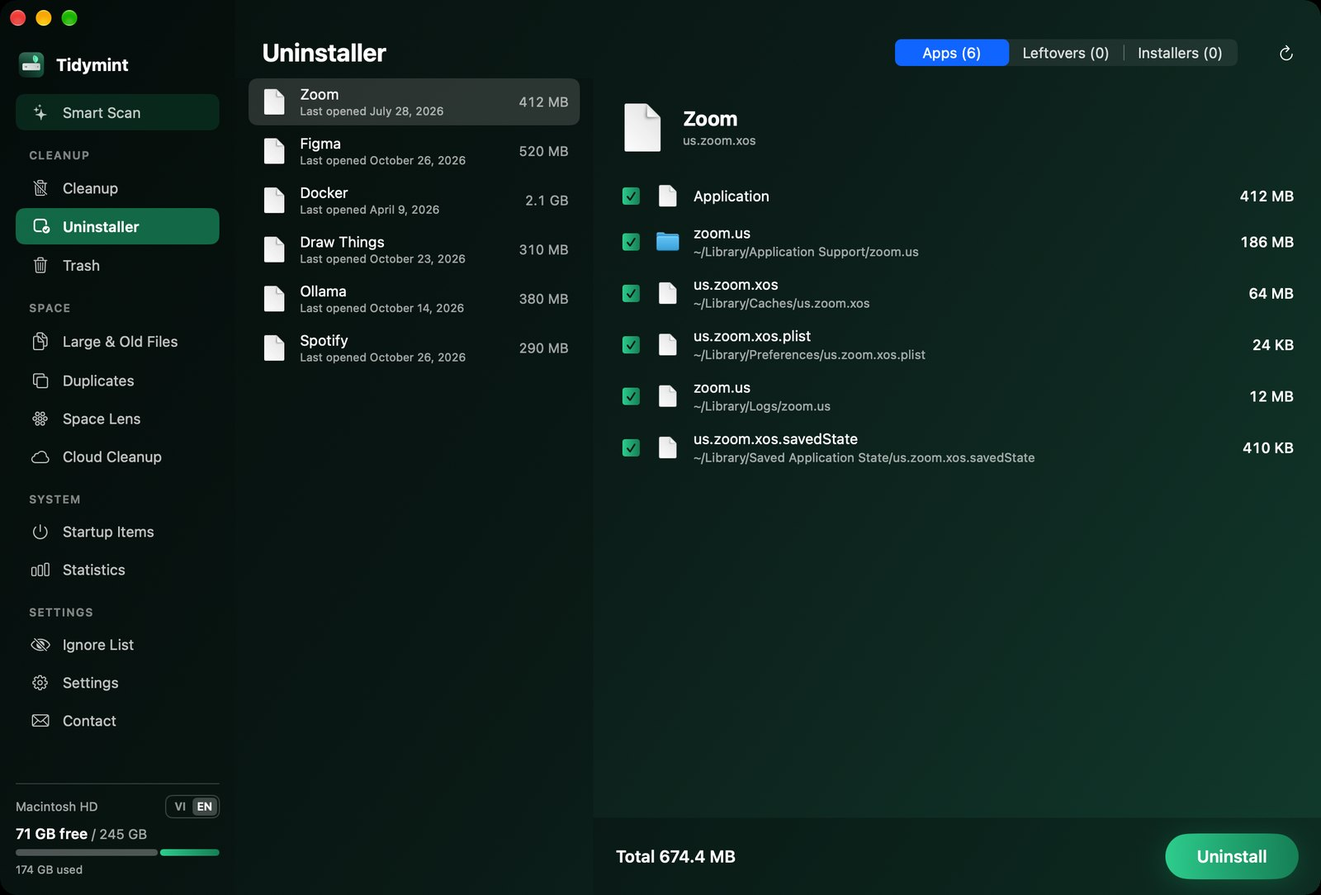
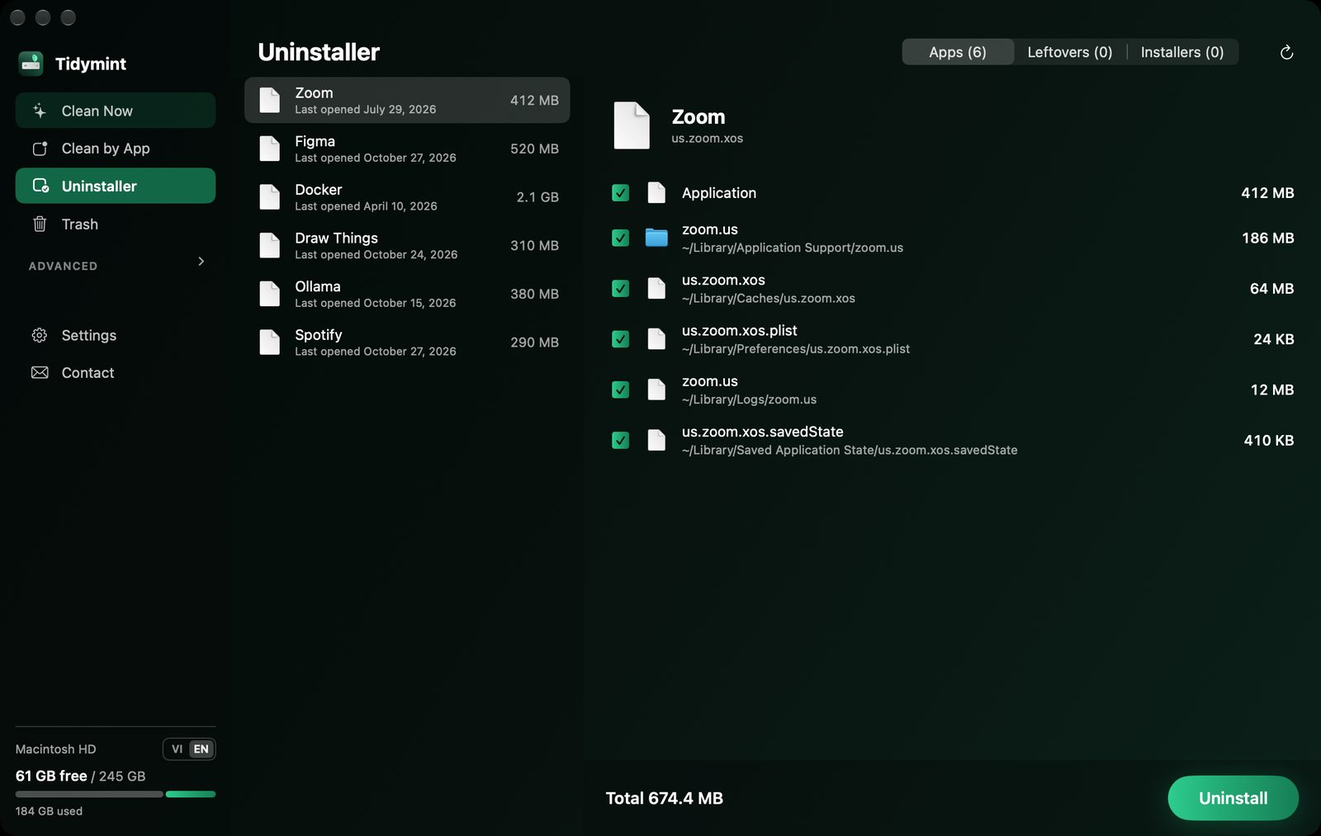
Website and README: new screenshots for the 0.3.1 interface, Vietnamese screenshots on /vi/, feature cards for Clean by App, Undo and Startup Items

diff --git a/docs/vi/index.html b/docs/vi/index.html
@@ -12,7 +12,7 @@
 <link rel="icon" href="../favicon.png">
 <meta property="og:title" content="Dọn dẹp MacBook miễn phí, thay CleanMyMac | Tidymint">
 <meta property="og:description" content="Dọn dẹp MacBook miễn phí: xoá bộ nhớ đệm, gọn Dữ liệu hệ thống, gỡ ứng dụng sạch, tìm file trùng. Mã nguồn mở, tiếng Việt, mọi thứ vào Thùng rác trước.">
-<meta property="og:image" content="https://tidymint.app/smart.jpg">
+<meta property="og:image" content="https://tidymint.app/vi/smart.jpg">
 <meta property="og:url" content="https://tidymint.app/vi/">
 <meta name="twitter:card" content="summary_large_image">
 <script>
@@ -144,7 +144,7 @@ summary{user-select:none}
   <p>Tidymint giúp bạn dọn dẹp MacBook an toàn và miễn phí: xoá bộ nhớ đệm, gọn Dữ liệu hệ thống, gỡ ứng dụng sạch sẽ, tìm file trùng và biết chính xác cái gì đang chiếm ổ.</p>
   <div class="cta"><a class="btn primary" href="https://github.com/HaiTrung-Workspace/tidymint/releases/latest/download/Tidymint.zip">Tải miễn phí <span class="arr">→</span></a><a class="btn ghost" href="#cai-dat">Hướng dẫn cài</a></div>
   <div class="badges"><span>✓ Miễn phí, mã nguồn mở (MIT)</span><span>✓ Chỉ chuyển vào Thùng rác</span><span>✓ Chạy không cần mạng, không theo dõi</span><span>★ Có trong danh sách <a href="https://github.com/jaywcjlove/awesome-mac">awesome-mac</a></span></div>
-  <div class="shot"><img src="../smart.jpg" alt="Kết quả Quét thông minh của Tidymint" width="1600" height="1084"></div>
+  <div class="shot"><img src="smart.jpg" alt="Trang đầu Tidymint sau khi quét: phần an toàn để dọn, chia nhóm và ghi dung lượng" width="1600" height="1013"></div>
 </header>
 
 <section>
@@ -159,7 +159,7 @@ summary{user-select:none}
 <section>
   <div class="def">
     <div><span class="tag">Nên biết</span><h2>“Dữ liệu hệ thống” trên Mac là gì?</h2><p>Trong <b>Cài đặt hệ thống › Cài đặt chung › Dung lượng</b>, macOS gom mọi thứ không xếp được vào mục <b>Dữ liệu hệ thống</b> (System Data). Mục này hay phình lên hàng chục GB và khó xem bằng Finder.</p><ul><li>Bộ nhớ đệm, nhật ký, file tạm của app và trình duyệt</li><li>Phần sót lại của app đã xoá</li><li>Bản chụp Time Machine trên máy và file cài đặt cũ</li><li>Với người làm AI: file model và bộ nhớ đệm thư viện</li></ul><p>Tidymint chỉ ra thư mục nào đang lớn trên máy bạn, giải thích từng thư mục bằng lời dễ hiểu, và cho bạn chuyển các mục an toàn vào Thùng rác.</p></div>
-    <img src="../lens.jpg" alt="Bản đồ bong bóng cho thấy thư mục nào chiếm ổ MacBook" loading="lazy" style="width:100%;height:auto;border-radius:12px;border:1px solid var(--line)">
+    <img src="lens.jpg" alt="Bản đồ bong bóng cho thấy thư mục nào chiếm ổ MacBook" loading="lazy" style="width:100%;height:auto;border-radius:12px;border:1px solid var(--line)">
   </div>
 </section>
 
@@ -170,8 +170,8 @@ summary{user-select:none}
 
 <section id="tinh-nang">
   <span class="tag">Tính năng</span><h2>Đủ cả trong một app nhỏ</h2>
-  <div class="grid" style="margin-top:24px"><div class="card"><span class="ico"><svg viewBox="0 0 24 24" width="22" height="22" fill="none" stroke="currentColor" stroke-width="1.75" stroke-linecap="round" stroke-linejoin="round" aria-hidden="true"><path d="M9.94 15.5A2 2 0 0 0 8.5 14.06l-6.14-1.58a.5.5 0 0 1 0-.96L8.5 9.94A2 2 0 0 0 9.94 8.5l1.58-6.14a.5.5 0 0 1 .96 0l1.58 6.14a2 2 0 0 0 1.44 1.44l6.14 1.58a.5.5 0 0 1 0 .96l-6.14 1.58a2 2 0 0 0-1.44 1.44l-1.58 6.14a.5.5 0 0 1-.96 0z"/><path d="M20 3v4M22 5h-4"/></svg></span><b>Quét thông minh</b><span>Bộ nhớ đệm, nhật ký, npm cache, Downloads cũ và file nháp trong thư mục dự án.</span></div><div class="card"><span class="ico"><svg viewBox="0 0 24 24" width="22" height="22" fill="none" stroke="currentColor" stroke-width="1.75" stroke-linecap="round" stroke-linejoin="round" aria-hidden="true"><rect x="8" y="8" width="14" height="14" rx="2"/><path d="M4 16c-1.1 0-2-.9-2-2V4c0-1.1.9-2 2-2h10c1.1 0 2 .9 2 2"/></svg></span><b>File trùng</b><span>Tìm theo nội dung. Giữ bản tốt nhất, kiểm tra script trước khi xoá.</span></div><div class="card"><span class="ico"><svg viewBox="0 0 24 24" width="22" height="22" fill="none" stroke="currentColor" stroke-width="1.75" stroke-linecap="round" stroke-linejoin="round" aria-hidden="true"><circle cx="8.5" cy="14.5" r="5.5"/><circle cx="17" cy="7.5" r="4"/><circle cx="18.5" cy="18" r="2.5"/></svg></span><b>Bản đồ ổ đĩa</b><span>Bong bóng cho thấy cái gì chiếm ổ, kèm giải thích thư mục hay gặp.</span></div><div class="card"><span class="ico"><svg viewBox="0 0 24 24" width="22" height="22" fill="none" stroke="currentColor" stroke-width="1.75" stroke-linecap="round" stroke-linejoin="round" aria-hidden="true"><path d="M11 21.73a2 2 0 0 0 2 0l7-4A2 2 0 0 0 21 16V8a2 2 0 0 0-1-1.73l-7-4a2 2 0 0 0-2 0l-7 4A2 2 0 0 0 3 8v8a2 2 0 0 0 1 1.73z"/><path d="M12 22V12M3.3 7 12 12l8.7-5"/></svg></span><b>Gỡ app</b><span>Gỡ app cùng bộ nhớ đệm, cài đặt và phần sót lại.</span></div><div class="card"><span class="ico"><svg viewBox="0 0 24 24" width="22" height="22" fill="none" stroke="currentColor" stroke-width="1.75" stroke-linecap="round" stroke-linejoin="round" aria-hidden="true"><path d="M15 2H6a2 2 0 0 0-2 2v16a2 2 0 0 0 2 2h12a2 2 0 0 0 2-2V7z"/><path d="M14 2v4a2 2 0 0 0 2 2h4M12 11v7M9 15l3 3 3-3"/></svg></span><b>File lớn và cũ</b><span>File trên 100 MB, xếp theo dung lượng hoặc lần mở cuối. Không chọn sẵn.</span></div><div class="card"><span class="ico"><svg viewBox="0 0 24 24" width="22" height="22" fill="none" stroke="currentColor" stroke-width="1.75" stroke-linecap="round" stroke-linejoin="round" aria-hidden="true"><path d="m12 14 4-4"/><path d="M3.34 19a10 10 0 1 1 17.32 0"/></svg></span><b>Thanh menu</b><span>Xem nhanh dung lượng trống, RAM, Thùng rác; báo khi ổ sắp đầy.</span></div></div>
-  <div class="feature" style="margin-top:48px"><img src="../dupes.jpg" alt="Tìm file trùng trên MacBook, đánh dấu bản giữ lại" loading="lazy"><img src="../cleanup.jpg" alt="Chi tiết dọn dẹp: bộ nhớ đệm và nhật ký xếp theo dung lượng" loading="lazy"></div>
+  <div class="grid" style="margin-top:24px"><div class="card"><span class="ico"><svg viewBox="0 0 24 24" width="22" height="22" fill="none" stroke="currentColor" stroke-width="1.75" stroke-linecap="round" stroke-linejoin="round" aria-hidden="true"><path d="M9.94 15.5A2 2 0 0 0 8.5 14.06l-6.14-1.58a.5.5 0 0 1 0-.96L8.5 9.94A2 2 0 0 0 9.94 8.5l1.58-6.14a.5.5 0 0 1 .96 0l1.58 6.14a2 2 0 0 0 1.44 1.44l6.14 1.58a.5.5 0 0 1 0 .96l-6.14 1.58a2 2 0 0 0-1.44 1.44l-1.58 6.14a.5.5 0 0 1-.96 0z"/><path d="M20 3v4M22 5h-4"/></svg></span><b>Dọn ngay</b><span>Quét bộ nhớ đệm, nhật ký, npm cache, file cài đặt cũ, cho xem tìm được gì, và chỉ dọn khi bạn bấm Dọn.</span></div><div class="card"><span class="ico"><svg viewBox="0 0 24 24" width="22" height="22" fill="none" stroke="currentColor" stroke-width="1.75" stroke-linecap="round" stroke-linejoin="round" aria-hidden="true"><rect x="3" y="3" width="7" height="7" rx="1.5"/><rect x="14" y="3" width="7" height="7" rx="1.5"/><rect x="3" y="14" width="7" height="7" rx="1.5"/><rect x="14" y="14" width="7" height="7" rx="1.5"/></svg></span><b>Dọn theo ứng dụng</b><span>Zalo, Chrome, Edge, Cốc Cốc, CapCut: bộ nhớ đệm chọn sẵn, ảnh và file xếp theo tháng để bạn tự chọn, tin nhắn và đăng nhập bị khoá.</span></div><div class="card"><span class="ico"><svg viewBox="0 0 24 24" width="22" height="22" fill="none" stroke="currentColor" stroke-width="1.75" stroke-linecap="round" stroke-linejoin="round" aria-hidden="true"><path d="M3 7v6h6"/><path d="M21 17a9 9 0 0 0-15-6.7L3 13"/></svg></span><b>Hoàn tác</b><span>Mỗi lần dọn đều được ghi lại. Một nút trả mọi thứ về chỗ cũ khi còn trong Thùng rác.</span></div><div class="card"><span class="ico"><svg viewBox="0 0 24 24" width="22" height="22" fill="none" stroke="currentColor" stroke-width="1.75" stroke-linecap="round" stroke-linejoin="round" aria-hidden="true"><rect x="8" y="8" width="14" height="14" rx="2"/><path d="M4 16c-1.1 0-2-.9-2-2V4c0-1.1.9-2 2-2h10c1.1 0 2 .9 2 2"/></svg></span><b>File trùng</b><span>Tìm theo nội dung. Giữ bản tốt nhất, kiểm tra script trước khi xoá.</span></div><div class="card"><span class="ico"><svg viewBox="0 0 24 24" width="22" height="22" fill="none" stroke="currentColor" stroke-width="1.75" stroke-linecap="round" stroke-linejoin="round" aria-hidden="true"><circle cx="8.5" cy="14.5" r="5.5"/><circle cx="17" cy="7.5" r="4"/><circle cx="18.5" cy="18" r="2.5"/></svg></span><b>Bản đồ ổ đĩa</b><span>Bong bóng cho thấy cái gì chiếm ổ, kèm giải thích thư mục hay gặp.</span></div><div class="card"><span class="ico"><svg viewBox="0 0 24 24" width="22" height="22" fill="none" stroke="currentColor" stroke-width="1.75" stroke-linecap="round" stroke-linejoin="round" aria-hidden="true"><path d="M11 21.73a2 2 0 0 0 2 0l7-4A2 2 0 0 0 21 16V8a2 2 0 0 0-1-1.73l-7-4a2 2 0 0 0-2 0l-7 4A2 2 0 0 0 3 8v8a2 2 0 0 0 1 1.73z"/><path d="M12 22V12M3.3 7 12 12l8.7-5"/></svg></span><b>Gỡ app</b><span>Gỡ app cùng bộ nhớ đệm và phần sót lại. Chỉ chọn sẵn phần khớp bundle id; có database bên trong thì để bạn quyết.</span></div><div class="card"><span class="ico"><svg viewBox="0 0 24 24" width="22" height="22" fill="none" stroke="currentColor" stroke-width="1.75" stroke-linecap="round" stroke-linejoin="round" aria-hidden="true"><path d="M15 2H6a2 2 0 0 0-2 2v16a2 2 0 0 0 2 2h12a2 2 0 0 0 2-2V7z"/><path d="M14 2v4a2 2 0 0 0 2 2h4M12 11v7M9 15l3 3 3-3"/></svg></span><b>File lớn</b><span>File trên 100 MB, xếp theo dung lượng hoặc lần mở cuối. Không chọn sẵn.</span></div><div class="card"><span class="ico"><svg viewBox="0 0 24 24" width="22" height="22" fill="none" stroke="currentColor" stroke-width="1.75" stroke-linecap="round" stroke-linejoin="round" aria-hidden="true"><path d="M20 13c0 5-3.5 7.5-7.66 8.95a1 1 0 0 1-.67-.01C7.5 20.5 4 18 4 13V6a1 1 0 0 1 1-1c2 0 4.5-1.2 6.24-2.72a1.17 1.17 0 0 1 1.52 0C14.51 3.81 17 5 19 5a1 1 0 0 1 1 1z"/><path d="m9 12 2 2 4-4"/></svg></span><b>Khởi động cùng máy</b><span>Ai đã ký từng mục chạy ngầm, đánh dấu vị trí hoặc tên bất thường. Nêu sự thật, không phán xét.</span></div></div>
+  <div class="feature" style="margin-top:48px"><img src="byapp.jpg" alt="Dọn theo ứng dụng: bộ nhớ đệm Zalo chọn sẵn, ảnh tin nhắn xếp theo tháng" loading="lazy" width="1600" height="1013"><img src="dupes.jpg" alt="Tìm file trùng trên MacBook, đánh dấu bản giữ lại" loading="lazy" width="1600" height="1013"></div>
 </section>
 
 <section>

diff --git a/docs/index.html b/docs/index.html
@@ -144,7 +144,7 @@ summary{user-select:none}
   <p>Tidymint is a free, open-source Mac cleaner. Clear caches and System Data, remove duplicate files, uninstall apps completely and see exactly what fills your disk.</p>
   <div class="cta"><a class="btn primary" href="https://github.com/HaiTrung-Workspace/tidymint/releases/latest/download/Tidymint.zip">Download free <span class="arr">→</span></a><a class="btn ghost" href="#install">How to install</a></div>
   <div class="badges"><span>✓ Free and open source (MIT)</span><span>✓ Everything goes to the Trash first</span><span>✓ Works offline, no tracking</span><span>★ Listed in <a href="https://github.com/jaywcjlove/awesome-mac">awesome-mac</a></span></div>
-  <div class="shot"><img src="smart.jpg" alt="Tidymint Smart Scan results" width="1600" height="1084"></div>
+  <div class="shot"><img src="smart.jpg" alt="Tidymint home page after a scan: what is safe to clean, grouped and sized" width="1600" height="1013"></div>
 </header>
 
 <section>
@@ -170,8 +170,8 @@ summary{user-select:none}
 
 <section id="features">
   <span class="tag">Features</span><h2>Everything in one small app</h2>
-  <div class="grid" style="margin-top:24px"><div class="card"><span class="ico"><svg viewBox="0 0 24 24" width="22" height="22" fill="none" stroke="currentColor" stroke-width="1.75" stroke-linecap="round" stroke-linejoin="round" aria-hidden="true"><path d="M9.94 15.5A2 2 0 0 0 8.5 14.06l-6.14-1.58a.5.5 0 0 1 0-.96L8.5 9.94A2 2 0 0 0 9.94 8.5l1.58-6.14a.5.5 0 0 1 .96 0l1.58 6.14a2 2 0 0 0 1.44 1.44l6.14 1.58a.5.5 0 0 1 0 .96l-6.14 1.58a2 2 0 0 0-1.44 1.44l-1.58 6.14a.5.5 0 0 1-.96 0z"/><path d="M20 3v4M22 5h-4"/></svg></span><b>Smart Scan</b><span>Caches, logs, npm cache, old downloads and drafts in your project folders.</span></div><div class="card"><span class="ico"><svg viewBox="0 0 24 24" width="22" height="22" fill="none" stroke="currentColor" stroke-width="1.75" stroke-linecap="round" stroke-linejoin="round" aria-hidden="true"><rect x="8" y="8" width="14" height="14" rx="2"/><path d="M4 16c-1.1 0-2-.9-2-2V4c0-1.1.9-2 2-2h10c1.1 0 2 .9 2 2"/></svg></span><b>Duplicates</b><span>Identical files found by content. Keeps the best copy, checks your scripts before deleting.</span></div><div class="card"><span class="ico"><svg viewBox="0 0 24 24" width="22" height="22" fill="none" stroke="currentColor" stroke-width="1.75" stroke-linecap="round" stroke-linejoin="round" aria-hidden="true"><circle cx="8.5" cy="14.5" r="5.5"/><circle cx="17" cy="7.5" r="4"/><circle cx="18.5" cy="18" r="2.5"/></svg></span><b>Space Lens</b><span>A bubble map of what fills your disk, with notes for common folders.</span></div><div class="card"><span class="ico"><svg viewBox="0 0 24 24" width="22" height="22" fill="none" stroke="currentColor" stroke-width="1.75" stroke-linecap="round" stroke-linejoin="round" aria-hidden="true"><path d="M11 21.73a2 2 0 0 0 2 0l7-4A2 2 0 0 0 21 16V8a2 2 0 0 0-1-1.73l-7-4a2 2 0 0 0-2 0l-7 4A2 2 0 0 0 3 8v8a2 2 0 0 0 1 1.73z"/><path d="M12 22V12M3.3 7 12 12l8.7-5"/></svg></span><b>Uninstaller</b><span>Removes apps with their caches, preferences and leftovers.</span></div><div class="card"><span class="ico"><svg viewBox="0 0 24 24" width="22" height="22" fill="none" stroke="currentColor" stroke-width="1.75" stroke-linecap="round" stroke-linejoin="round" aria-hidden="true"><path d="M15 2H6a2 2 0 0 0-2 2v16a2 2 0 0 0 2 2h12a2 2 0 0 0 2-2V7z"/><path d="M14 2v4a2 2 0 0 0 2 2h4M12 11v7M9 15l3 3 3-3"/></svg></span><b>Large & old files</b><span>Files over 100 MB, sorted by size or last opened. Never pre-selected.</span></div><div class="card"><span class="ico"><svg viewBox="0 0 24 24" width="22" height="22" fill="none" stroke="currentColor" stroke-width="1.75" stroke-linecap="round" stroke-linejoin="round" aria-hidden="true"><path d="m12 14 4-4"/><path d="M3.34 19a10 10 0 1 1 17.32 0"/></svg></span><b>Menu bar</b><span>Free space, RAM and Trash at a glance, with low-space alerts.</span></div></div>
-  <div class="feature" style="margin-top:48px"><img src="dupes.jpg" alt="Tidymint duplicate file finder with the copy to keep marked" loading="lazy"><img src="cleanup.jpg" alt="Tidymint cleanup details listing caches and logs by size" loading="lazy"></div>
+  <div class="grid" style="margin-top:24px"><div class="card"><span class="ico"><svg viewBox="0 0 24 24" width="22" height="22" fill="none" stroke="currentColor" stroke-width="1.75" stroke-linecap="round" stroke-linejoin="round" aria-hidden="true"><path d="M9.94 15.5A2 2 0 0 0 8.5 14.06l-6.14-1.58a.5.5 0 0 1 0-.96L8.5 9.94A2 2 0 0 0 9.94 8.5l1.58-6.14a.5.5 0 0 1 .96 0l1.58 6.14a2 2 0 0 0 1.44 1.44l6.14 1.58a.5.5 0 0 1 0 .96l-6.14 1.58a2 2 0 0 0-1.44 1.44l-1.58 6.14a.5.5 0 0 1-.96 0z"/><path d="M20 3v4M22 5h-4"/></svg></span><b>Clean Now</b><span>Scans caches, logs, npm cache and old installers, shows what it found, and cleans only when you press Clean.</span></div><div class="card"><span class="ico"><svg viewBox="0 0 24 24" width="22" height="22" fill="none" stroke="currentColor" stroke-width="1.75" stroke-linecap="round" stroke-linejoin="round" aria-hidden="true"><rect x="3" y="3" width="7" height="7" rx="1.5"/><rect x="14" y="3" width="7" height="7" rx="1.5"/><rect x="3" y="14" width="7" height="7" rx="1.5"/><rect x="14" y="14" width="7" height="7" rx="1.5"/></svg></span><b>Clean by App</b><span>Zalo, Chrome, Edge, Cốc Cốc and CapCut: caches pre-selected, photos and files by month for you to pick, messages and logins locked.</span></div><div class="card"><span class="ico"><svg viewBox="0 0 24 24" width="22" height="22" fill="none" stroke="currentColor" stroke-width="1.75" stroke-linecap="round" stroke-linejoin="round" aria-hidden="true"><path d="M3 7v6h6"/><path d="M21 17a9 9 0 0 0-15-6.7L3 13"/></svg></span><b>Undo</b><span>Every clean is recorded. One button puts the last run back where it was while it is still in the Trash.</span></div><div class="card"><span class="ico"><svg viewBox="0 0 24 24" width="22" height="22" fill="none" stroke="currentColor" stroke-width="1.75" stroke-linecap="round" stroke-linejoin="round" aria-hidden="true"><rect x="8" y="8" width="14" height="14" rx="2"/><path d="M4 16c-1.1 0-2-.9-2-2V4c0-1.1.9-2 2-2h10c1.1 0 2 .9 2 2"/></svg></span><b>Duplicates</b><span>Identical files found by content. Keeps the best copy, checks your scripts before deleting.</span></div><div class="card"><span class="ico"><svg viewBox="0 0 24 24" width="22" height="22" fill="none" stroke="currentColor" stroke-width="1.75" stroke-linecap="round" stroke-linejoin="round" aria-hidden="true"><circle cx="8.5" cy="14.5" r="5.5"/><circle cx="17" cy="7.5" r="4"/><circle cx="18.5" cy="18" r="2.5"/></svg></span><b>Space Lens</b><span>A bubble map of what fills your disk, with notes for common folders.</span></div><div class="card"><span class="ico"><svg viewBox="0 0 24 24" width="22" height="22" fill="none" stroke="currentColor" stroke-width="1.75" stroke-linecap="round" stroke-linejoin="round" aria-hidden="true"><path d="M11 21.73a2 2 0 0 0 2 0l7-4A2 2 0 0 0 21 16V8a2 2 0 0 0-1-1.73l-7-4a2 2 0 0 0-2 0l-7 4A2 2 0 0 0 3 8v8a2 2 0 0 0 1 1.73z"/><path d="M12 22V12M3.3 7 12 12l8.7-5"/></svg></span><b>Uninstaller</b><span>Removes apps with their caches and leftovers. Only bundle-id matches are pre-selected; anything holding a database is left to you.</span></div><div class="card"><span class="ico"><svg viewBox="0 0 24 24" width="22" height="22" fill="none" stroke="currentColor" stroke-width="1.75" stroke-linecap="round" stroke-linejoin="round" aria-hidden="true"><path d="M15 2H6a2 2 0 0 0-2 2v16a2 2 0 0 0 2 2h12a2 2 0 0 0 2-2V7z"/><path d="M14 2v4a2 2 0 0 0 2 2h4M12 11v7M9 15l3 3 3-3"/></svg></span><b>Large files</b><span>Files over 100 MB, sorted by size or last opened. Never pre-selected.</span></div><div class="card"><span class="ico"><svg viewBox="0 0 24 24" width="22" height="22" fill="none" stroke="currentColor" stroke-width="1.75" stroke-linecap="round" stroke-linejoin="round" aria-hidden="true"><path d="M20 13c0 5-3.5 7.5-7.66 8.95a1 1 0 0 1-.67-.01C7.5 20.5 4 18 4 13V6a1 1 0 0 1 1-1c2 0 4.5-1.2 6.24-2.72a1.17 1.17 0 0 1 1.52 0C14.51 3.81 17 5 19 5a1 1 0 0 1 1 1z"/><path d="m9 12 2 2 4-4"/></svg></span><b>Startup Items</b><span>Who signed each background item, and a flag on unusual locations or names. Facts, not verdicts.</span></div></div>
+  <div class="feature" style="margin-top:48px"><img src="byapp.jpg" alt="Clean by App showing Zalo caches pre-selected and chat photos by month" loading="lazy" width="1600" height="1013"><img src="dupes.jpg" alt="Tidymint duplicate file finder with the copy to keep marked" loading="lazy" width="1600" height="1013"></div>
 </section>
 
 <section>

diff --git a/tools/site.py b/tools/site.py
@@ -8,7 +8,7 @@ GH = "https://github.com/HaiTrung-Workspace/tidymint"
 DL = GH + "/releases/latest/download/Tidymint.zip"
 GA_ID = "G-19HEJDJPN3"
 # Line icons (Lucide style, MIT): 24px grid, 1.75 stroke, currentColor. Used in feature and audience cards.
-ICONS = {'scan': '<path d="M9.94 15.5A2 2 0 0 0 8.5 14.06l-6.14-1.58a.5.5 0 0 1 0-.96L8.5 9.94A2 2 0 0 0 9.94 8.5l1.58-6.14a.5.5 0 0 1 .96 0l1.58 6.14a2 2 0 0 0 1.44 1.44l6.14 1.58a.5.5 0 0 1 0 .96l-6.14 1.58a2 2 0 0 0-1.44 1.44l-1.58 6.14a.5.5 0 0 1-.96 0z"/><path d="M20 3v4M22 5h-4"/>', 'dupes': '<rect x="8" y="8" width="14" height="14" rx="2"/><path d="M4 16c-1.1 0-2-.9-2-2V4c0-1.1.9-2 2-2h10c1.1 0 2 .9 2 2"/>', 'lens': '<circle cx="8.5" cy="14.5" r="5.5"/><circle cx="17" cy="7.5" r="4"/><circle cx="18.5" cy="18" r="2.5"/>', 'apps': '<path d="M11 21.73a2 2 0 0 0 2 0l7-4A2 2 0 0 0 21 16V8a2 2 0 0 0-1-1.73l-7-4a2 2 0 0 0-2 0l-7 4A2 2 0 0 0 3 8v8a2 2 0 0 0 1 1.73z"/><path d="M12 22V12M3.3 7 12 12l8.7-5"/>', 'large': '<path d="M15 2H6a2 2 0 0 0-2 2v16a2 2 0 0 0 2 2h12a2 2 0 0 0 2-2V7z"/><path d="M14 2v4a2 2 0 0 0 2 2h4M12 11v7M9 15l3 3 3-3"/>', 'menu': '<path d="m12 14 4-4"/><path d="M3.34 19a10 10 0 1 1 17.32 0"/>', 'ai': '<rect x="4" y="4" width="16" height="16" rx="2"/><rect x="9" y="9" width="6" height="6" rx="1"/><path d="M15 2v2M15 20v2M2 15h2M2 9h2M20 15h2M20 9h2M9 2v2M9 20v2"/>', 'dev': '<path d="m16 18 6-6-6-6M8 6l-6 6 6 6"/>', 'video': '<rect x="3" y="3" width="18" height="18" rx="2"/><path d="M7 3v18M17 3v18M3 12h18M3 7.5h4M3 16.5h4M17 7.5h4M17 16.5h4"/>', 'drive': '<path d="M22 12H2"/><path d="M5.45 5.11 2 12v6a2 2 0 0 0 2 2h16a2 2 0 0 0 2-2v-6l-3.45-6.89A2 2 0 0 0 16.76 4H7.24a2 2 0 0 0-1.79 1.11z"/><path d="M6 16h.01M10 16h.01"/>'}
+ICONS = {'byapp': '<rect x="3" y="3" width="7" height="7" rx="1.5"/><rect x="14" y="3" width="7" height="7" rx="1.5"/><rect x="3" y="14" width="7" height="7" rx="1.5"/><rect x="14" y="14" width="7" height="7" rx="1.5"/>', 'undo': '<path d="M3 7v6h6"/><path d="M21 17a9 9 0 0 0-15-6.7L3 13"/>', 'shield': '<path d="M20 13c0 5-3.5 7.5-7.66 8.95a1 1 0 0 1-.67-.01C7.5 20.5 4 18 4 13V6a1 1 0 0 1 1-1c2 0 4.5-1.2 6.24-2.72a1.17 1.17 0 0 1 1.52 0C14.51 3.81 17 5 19 5a1 1 0 0 1 1 1z"/><path d="m9 12 2 2 4-4"/>', 'scan': '<path d="M9.94 15.5A2 2 0 0 0 8.5 14.06l-6.14-1.58a.5.5 0 0 1 0-.96L8.5 9.94A2 2 0 0 0 9.94 8.5l1.58-6.14a.5.5 0 0 1 .96 0l1.58 6.14a2 2 0 0 0 1.44 1.44l6.14 1.58a.5.5 0 0 1 0 .96l-6.14 1.58a2 2 0 0 0-1.44 1.44l-1.58 6.14a.5.5 0 0 1-.96 0z"/><path d="M20 3v4M22 5h-4"/>', 'dupes': '<rect x="8" y="8" width="14" height="14" rx="2"/><path d="M4 16c-1.1 0-2-.9-2-2V4c0-1.1.9-2 2-2h10c1.1 0 2 .9 2 2"/>', 'lens': '<circle cx="8.5" cy="14.5" r="5.5"/><circle cx="17" cy="7.5" r="4"/><circle cx="18.5" cy="18" r="2.5"/>', 'apps': '<path d="M11 21.73a2 2 0 0 0 2 0l7-4A2 2 0 0 0 21 16V8a2 2 0 0 0-1-1.73l-7-4a2 2 0 0 0-2 0l-7 4A2 2 0 0 0 3 8v8a2 2 0 0 0 1 1.73z"/><path d="M12 22V12M3.3 7 12 12l8.7-5"/>', 'large': '<path d="M15 2H6a2 2 0 0 0-2 2v16a2 2 0 0 0 2 2h12a2 2 0 0 0 2-2V7z"/><path d="M14 2v4a2 2 0 0 0 2 2h4M12 11v7M9 15l3 3 3-3"/>', 'menu': '<path d="m12 14 4-4"/><path d="M3.34 19a10 10 0 1 1 17.32 0"/>', 'ai': '<rect x="4" y="4" width="16" height="16" rx="2"/><rect x="9" y="9" width="6" height="6" rx="1"/><path d="M15 2v2M15 20v2M2 15h2M2 9h2M20 15h2M20 9h2M9 2v2M9 20v2"/>', 'dev': '<path d="m16 18 6-6-6-6M8 6l-6 6 6 6"/>', 'video': '<rect x="3" y="3" width="18" height="18" rx="2"/><path d="M7 3v18M17 3v18M3 12h18M3 7.5h4M3 16.5h4M17 7.5h4M17 16.5h4"/>', 'drive': '<path d="M22 12H2"/><path d="M5.45 5.11 2 12v6a2 2 0 0 0 2 2h16a2 2 0 0 0 2-2v-6l-3.45-6.89A2 2 0 0 0 16.76 4H7.24a2 2 0 0 0-1.79 1.11z"/><path d="M6 16h.01M10 16h.01"/>'}
 def icon(k):
     return '<svg viewBox="0 0 24 24" width="22" height="22" fill="none" stroke="currentColor" stroke-width="1.75" stroke-linecap="round" stroke-linejoin="round" aria-hidden="true">%s</svg>' % ICONS[k]
 ENDPOINT = "https://script.google.com/macros/s/AKfycbz07aYQ8kI0u0OV842dt-LxeN5TedqfOzNvhmuVAPmgXdcIGtpzI-GNwLE_kiUMiGDKag/exec"
@@ -86,7 +86,7 @@ T = {
   sub="Tidymint is a free, open-source Mac cleaner. Clear caches and System Data, remove duplicate files, uninstall apps completely and see exactly what fills your disk.",
   cta1="Download free", cta2="How to install",
   badges=["✓ Free and open source (MIT)","✓ Everything goes to the Trash first","✓ Works offline, no tracking",'★ Listed in <a href="https://github.com/jaywcjlove/awesome-mac">awesome-mac</a>'],
-  shot_alt="Tidymint Smart Scan results", lens_alt="Space Lens bubble map showing which folders fill a Mac disk", dupes_alt="Tidymint duplicate file finder with the copy to keep marked", cleanup_alt="Tidymint cleanup details listing caches and logs by size", vs_more='Full comparison: <a href="cleanmymac-alternative/">free CleanMyMac alternatives</a> · Guide: <a href="clear-system-data-mac/">how to clear System Data on Mac</a>',
+  shot_alt="Tidymint home page after a scan: what is safe to clean, grouped and sized", byapp_alt="Clean by App showing Zalo caches pre-selected and chat photos by month", lens_alt="Space Lens bubble map showing which folders fill a Mac disk", dupes_alt="Tidymint duplicate file finder with the copy to keep marked", cleanup_alt="Tidymint cleanup details listing caches and logs by size", vs_more='Full comparison: <a href="cleanmymac-alternative/">free CleanMyMac alternatives</a> · Guide: <a href="clear-system-data-mac/">how to clear System Data on Mac</a>',
   vs_tag="Why Tidymint", vs_h="A cleaner you can actually trust",
   vs_bad_h="Typical paid cleaners", vs_bad=["Paid licence or subscription, major upgrades often cost extra","Closed source: you cannot see what it deletes","Cracked copies are a common way to get malware"],
   vs_good_h="Tidymint", vs_good=["Free, with no account and no subscription","Open source (MIT): anyone can read every line","Only moves items to the Trash, you empty it yourself"],
@@ -97,7 +97,7 @@ T = {
   how_tag="How it works", how_h="Three steps, you stay in control",
   how=[("Scan","One click looks through caches, logs, old downloads, large files and duplicates. Nothing is touched yet."),("Review","Every item is grouped, sized and explained. Risky items are never pre-selected, files still used by your scripts are flagged."),("Clean","Selected items move to the Trash. Check the Trash, then empty it when you are ready.")],
   feat_tag="Features", feat_h="Everything in one small app",
-  feats=[("scan","Smart Scan","Caches, logs, npm cache, old downloads and drafts in your project folders."),("dupes","Duplicates","Identical files found by content. Keeps the best copy, checks your scripts before deleting."),("lens","Space Lens","A bubble map of what fills your disk, with notes for common folders."),("apps","Uninstaller","Removes apps with their caches, preferences and leftovers."),("large","Large & old files","Files over 100 MB, sorted by size or last opened. Never pre-selected."),("menu","Menu bar","Free space, RAM and Trash at a glance, with low-space alerts.")],
+  feats=[("scan","Clean Now","Scans caches, logs, npm cache and old installers, shows what it found, and cleans only when you press Clean."),("byapp","Clean by App","Zalo, Chrome, Edge, Cốc Cốc and CapCut: caches pre-selected, photos and files by month for you to pick, messages and logins locked."),("undo","Undo","Every clean is recorded. One button puts the last run back where it was while it is still in the Trash."),("dupes","Duplicates","Identical files found by content. Keeps the best copy, checks your scripts before deleting."),("lens","Space Lens","A bubble map of what fills your disk, with notes for common folders."),("apps","Uninstaller","Removes apps with their caches and leftovers. Only bundle-id matches are pre-selected; anything holding a database is left to you."),("large","Large files","Files over 100 MB, sorted by size or last opened. Never pre-selected."),("shield","Startup Items","Who signed each background item, and a flag on unusual locations or names. Facts, not verdicts.")],
   use_tag="Made for", use_h="Who fills their Mac the fastest",
   uses=[("ai","AI work","Model weights, Hugging Face and Ollama caches, generated images."),("dev","Developers","node_modules, npm and Homebrew caches, old builds."),("video","Video and photo","Exports, render drafts and duplicate assets."),("drive","256 GB Macs","Every gigabyte counts on a small SSD.")],
   faq_h="Questions",
@@ -125,7 +125,7 @@ T = {
           ("Legal",[(GH+"/blob/main/PRIVACY.md","Privacy"),(GH+"/blob/main/LICENSE","MIT License"),("mailto:hello@tidymint.app","hello@tidymint.app")])],
   copy="© 2026 Tidymint", extra_footer="",
   msg=dict(bad="Please enter a valid email.",sending="Sending...",ok="Thanks! You are on the list.",err="Could not send right now. Please try again later."),
-  src="website", img="", aria_lang="Language", top="Back to top",
+  src="website", img="", shot="", aria_lang="Language", top="Back to top",
   ck_text="This website uses Google Analytics cookies to count visits. The Tidymint app itself tracks nothing.", ck_yes="Accept", ck_no="Decline", ck_link="Cookie settings", ck_more="Privacy"),
 "vi": dict(
   lang="vi", path="vi/", other="../", title="Dọn dẹp MacBook miễn phí, thay CleanMyMac | Tidymint",
@@ -135,7 +135,7 @@ T = {
   sub="Tidymint giúp bạn dọn dẹp MacBook an toàn và miễn phí: xoá bộ nhớ đệm, gọn Dữ liệu hệ thống, gỡ ứng dụng sạch sẽ, tìm file trùng và biết chính xác cái gì đang chiếm ổ.",
   cta1="Tải miễn phí", cta2="Hướng dẫn cài",
   badges=["✓ Miễn phí, mã nguồn mở (MIT)","✓ Chỉ chuyển vào Thùng rác","✓ Chạy không cần mạng, không theo dõi",'★ Có trong danh sách <a href="https://github.com/jaywcjlove/awesome-mac">awesome-mac</a>'],
-  shot_alt="Kết quả Quét thông minh của Tidymint", lens_alt="Bản đồ bong bóng cho thấy thư mục nào chiếm ổ MacBook", dupes_alt="Tìm file trùng trên MacBook, đánh dấu bản giữ lại", cleanup_alt="Chi tiết dọn dẹp: bộ nhớ đệm và nhật ký xếp theo dung lượng", vs_more='So sánh chi tiết: <a href="cleanmymac-mien-phi/">CleanMyMac miễn phí? Lựa chọn hợp pháp</a> · Hướng dẫn: <a href="xoa-ung-dung-macbook/">cách xóa ứng dụng trên MacBook sạch hoàn toàn</a>',
+  shot_alt="Trang đầu Tidymint sau khi quét: phần an toàn để dọn, chia nhóm và ghi dung lượng", byapp_alt="Dọn theo ứng dụng: bộ nhớ đệm Zalo chọn sẵn, ảnh tin nhắn xếp theo tháng", lens_alt="Bản đồ bong bóng cho thấy thư mục nào chiếm ổ MacBook", dupes_alt="Tìm file trùng trên MacBook, đánh dấu bản giữ lại", cleanup_alt="Chi tiết dọn dẹp: bộ nhớ đệm và nhật ký xếp theo dung lượng", vs_more='So sánh chi tiết: <a href="cleanmymac-mien-phi/">CleanMyMac miễn phí? Lựa chọn hợp pháp</a> · Hướng dẫn: <a href="xoa-ung-dung-macbook/">cách xóa ứng dụng trên MacBook sạch hoàn toàn</a>',
   vs_tag="Vì sao chọn Tidymint", vs_h="App dọn dẹp bạn tin được",
   vs_bad_h="App dọn dẹp trả phí thường gặp", vs_bad=["Trả tiền bản quyền hoặc thuê bao, lên đời bản lớn thường tốn thêm","Mã nguồn đóng: không biết app xoá những gì","Bản crack là đường lây mã độc rất phổ biến"],
   vs_good_h="Tidymint", vs_good=["Miễn phí, không cần tài khoản, không thuê bao","Mã nguồn mở (MIT): ai cũng đọc được từng dòng","Chỉ chuyển vào Thùng rác, bạn tự đổ"],
@@ -146,7 +146,7 @@ T = {
   how_tag="Cách dùng", how_h="Ba bước, bạn luôn là người quyết",
   how=[("Quét","Một cú bấm xem qua bộ nhớ đệm, nhật ký, Downloads cũ, file lớn và file trùng. Chưa động vào gì."),("Xem lại","Từng mục được chia nhóm, ghi dung lượng và giải thích. Mục rủi ro không bao giờ chọn sẵn, file còn được script dùng sẽ được đánh dấu."),("Dọn","Mục đã chọn chuyển vào Thùng rác. Xem lại Thùng rác rồi tự đổ khi sẵn sàng.")],
   feat_tag="Tính năng", feat_h="Đủ cả trong một app nhỏ",
-  feats=[("scan","Quét thông minh","Bộ nhớ đệm, nhật ký, npm cache, Downloads cũ và file nháp trong thư mục dự án."),("dupes","File trùng","Tìm theo nội dung. Giữ bản tốt nhất, kiểm tra script trước khi xoá."),("lens","Bản đồ ổ đĩa","Bong bóng cho thấy cái gì chiếm ổ, kèm giải thích thư mục hay gặp."),("apps","Gỡ app","Gỡ app cùng bộ nhớ đệm, cài đặt và phần sót lại."),("large","File lớn và cũ","File trên 100 MB, xếp theo dung lượng hoặc lần mở cuối. Không chọn sẵn."),("menu","Thanh menu","Xem nhanh dung lượng trống, RAM, Thùng rác; báo khi ổ sắp đầy.")],
+  feats=[("scan","Dọn ngay","Quét bộ nhớ đệm, nhật ký, npm cache, file cài đặt cũ, cho xem tìm được gì, và chỉ dọn khi bạn bấm Dọn."),("byapp","Dọn theo ứng dụng","Zalo, Chrome, Edge, Cốc Cốc, CapCut: bộ nhớ đệm chọn sẵn, ảnh và file xếp theo tháng để bạn tự chọn, tin nhắn và đăng nhập bị khoá."),("undo","Hoàn tác","Mỗi lần dọn đều được ghi lại. Một nút trả mọi thứ về chỗ cũ khi còn trong Thùng rác."),("dupes","File trùng","Tìm theo nội dung. Giữ bản tốt nhất, kiểm tra script trước khi xoá."),("lens","Bản đồ ổ đĩa","Bong bóng cho thấy cái gì chiếm ổ, kèm giải thích thư mục hay gặp."),("apps","Gỡ app","Gỡ app cùng bộ nhớ đệm và phần sót lại. Chỉ chọn sẵn phần khớp bundle id; có database bên trong thì để bạn quyết."),("large","File lớn","File trên 100 MB, xếp theo dung lượng hoặc lần mở cuối. Không chọn sẵn."),("shield","Khởi động cùng máy","Ai đã ký từng mục chạy ngầm, đánh dấu vị trí hoặc tên bất thường. Nêu sự thật, không phán xét.")],
   use_tag="Dành cho", use_h="Ai hay đầy ổ nhất",
   uses=[("ai","Người làm AI","File model, bộ nhớ đệm Hugging Face, Ollama, ảnh tạo bằng AI."),("dev","Lập trình viên","node_modules, npm, Homebrew, bản build cũ."),("video","Làm video, ảnh","File xuất, bản nháp render, ảnh trùng."),("drive","Mac 256 GB","Ổ nhỏ thì từng GB đều quý.")],
   faq_h="Hỏi đáp",
@@ -174,14 +174,14 @@ T = {
           ("Pháp lý",[(GH+"/blob/main/PRIVACY.md","Quyền riêng tư"),(GH+"/blob/main/LICENSE","Giấy phép MIT"),("mailto:hello@tidymint.app","hello@tidymint.app")])],
   copy="© 2026 Tidymint", extra_footer=' · Cùng tác giả: <a href="https://concao.org/?utm_source=tidymint&amp;utm_medium=web&amp;utm_campaign=footer">Cồn Cào</a>',
   msg=dict(bad="Email chưa đúng.",sending="Đang gửi...",ok="Cảm ơn bạn! Đã đăng ký.",err="Chưa gửi được, bạn thử lại sau nhé."),
-  src="website-vi", img="../", aria_lang="Ngôn ngữ", top="Lên đầu trang",
+  src="website-vi", img="../", shot="", aria_lang="Ngôn ngữ", top="Lên đầu trang",
   ck_text="Website dùng cookie Google Analytics để đếm lượt truy cập. Bản thân app Tidymint không theo dõi gì.", ck_yes="Đồng ý", ck_no="Từ chối", ck_link="Cài đặt cookie", ck_more="Quyền riêng tư"),
 }
 IDS = {"en": dict(f="features", h="how", q="faq", i="install", s="signup"),
        "vi": dict(f="tinh-nang", h="cach-dung", q="hoi-dap", i="cai-dat", s="dang-ky")}
 
 def page(k):
-    t = T[k]; i = IDS[k]; img = t["img"]
+    t = T[k]; i = IDS[k]; img = t["img"]; shot = t["shot"]
     url = "https://tidymint.app/" + t["path"]
     ld = [
       {"@context":"https://schema.org","@type":"SoftwareApplication","name":"Tidymint","operatingSystem":"macOS 14 or later",
@@ -214,7 +214,7 @@ def page(k):
 <link rel="icon" href="{img}favicon.png">
 <meta property="og:title" content="{t["title"]}">
 <meta property="og:description" content="{t["desc"]}">
-<meta property="og:image" content="https://tidymint.app/smart.jpg">
+<meta property="og:image" content="https://tidymint.app/{"vi/" if k == "vi" else ""}smart.jpg">
 <meta property="og:url" content="{url}">
 <meta name="twitter:card" content="summary_large_image">
 <script>
@@ -239,7 +239,7 @@ gtag('js',new Date());gtag('config','{GA_ID}');
   <p>{t["sub"]}</p>
   <div class="cta"><a class="btn primary" href="{DL}">{t["cta1"]} <span class="arr">→</span></a><a class="btn ghost" href="#{i["i"]}">{t["cta2"]}</a></div>
   <div class="badges">{"".join("<span>%s</span>" % b for b in t["badges"])}</div>
-  <div class="shot"><img src="{img}smart.jpg" alt="{t["shot_alt"]}" width="1600" height="1084"></div>
+  <div class="shot"><img src="{shot}smart.jpg" alt="{t["shot_alt"]}" width="1600" height="1013"></div>
 </header>
 
 <section>
@@ -254,7 +254,7 @@ gtag('js',new Date());gtag('config','{GA_ID}');
 <section>
   <div class="def">
     <div><span class="tag">{t["def_tag"]}</span><h2>{t["def_h"]}</h2><p>{t["def_p"]}</p><ul>{"".join("<li>%s</li>" % x for x in t["def_li"])}</ul><p>{t["def_p2"]}</p></div>
-    <img src="{img}lens.jpg" alt="{t["lens_alt"]}" loading="lazy" style="width:100%;height:auto;border-radius:12px;border:1px solid var(--line)">
+    <img src="{shot}lens.jpg" alt="{t["lens_alt"]}" loading="lazy" style="width:100%;height:auto;border-radius:12px;border:1px solid var(--line)">
   </div>
 </section>
 
@@ -266,7 +266,7 @@ gtag('js',new Date());gtag('config','{GA_ID}');
 <section id="{i["f"]}">
   <span class="tag">{t["feat_tag"]}</span><h2>{t["feat_h"]}</h2>
   <div class="grid" style="margin-top:24px">{feats}</div>
-  <div class="feature" style="margin-top:48px"><img src="{img}dupes.jpg" alt="{t["dupes_alt"]}" loading="lazy"><img src="{img}cleanup.jpg" alt="{t["cleanup_alt"]}" loading="lazy"></div>
+  <div class="feature" style="margin-top:48px"><img src="{shot}byapp.jpg" alt="{t["byapp_alt"]}" loading="lazy" width="1600" height="1013"><img src="{shot}dupes.jpg" alt="{t["dupes_alt"]}" loading="lazy" width="1600" height="1013"></div>
 </section>
 
 <section>

diff --git a/README.md b/README.md
@@ -15,12 +15,17 @@ AI work leaves a lot behind: model files, drafts, exported images, duplicate ass
 *Screenshots use sample data.*
 
 ### 1. One scan, then you decide
-Smart Scan finds safe junk, large files and the Trash in one pass. Nothing is removed until you click **Clean**, and everything goes to the Trash first.
+Clean Now finds the safe part (caches, logs, old installers), shows it by group with sizes, and cleans only when you click **Clean**. Everything goes to the Trash first, and **Undo** on the Trash page puts the last run back.
 
 ### 2. Full control over every item
 Open **Review Details** to see each category, expand it, and tick or untick single items. Apps that are still running are flagged and left unticked.
 
 ![Cleanup details](docs/cleanup.jpg)
+
+### 2b. Clean by app
+Zalo, Chrome, Edge, Cốc Cốc and CapCut each get their own page: caches are pre-selected, photos, videos and files are listed by month for you to pick, and messages, logins and projects are locked. Cleaning is refused while the app is open.
+
+![Clean by App](docs/byapp.jpg)
 
 ### 3. Duplicates without the risk
 Identical files are grouped (SHA-256, any file name). The best copy is marked **Keep**, and one click selects every extra copy. Before deleting, the app checks your project folders: a file still used by a script or skill is flagged in red and unticked for you.
